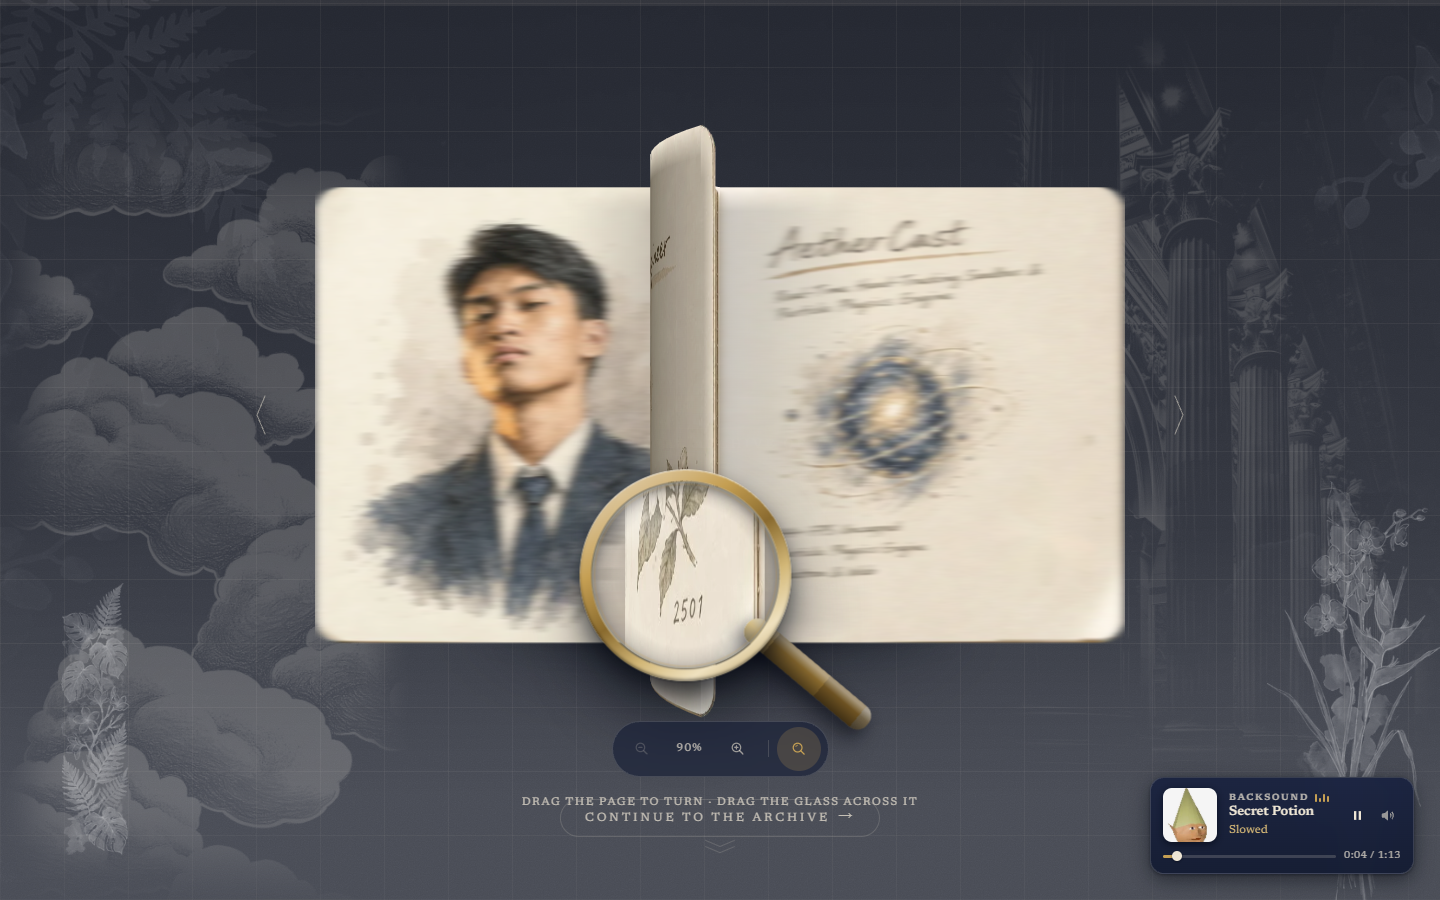
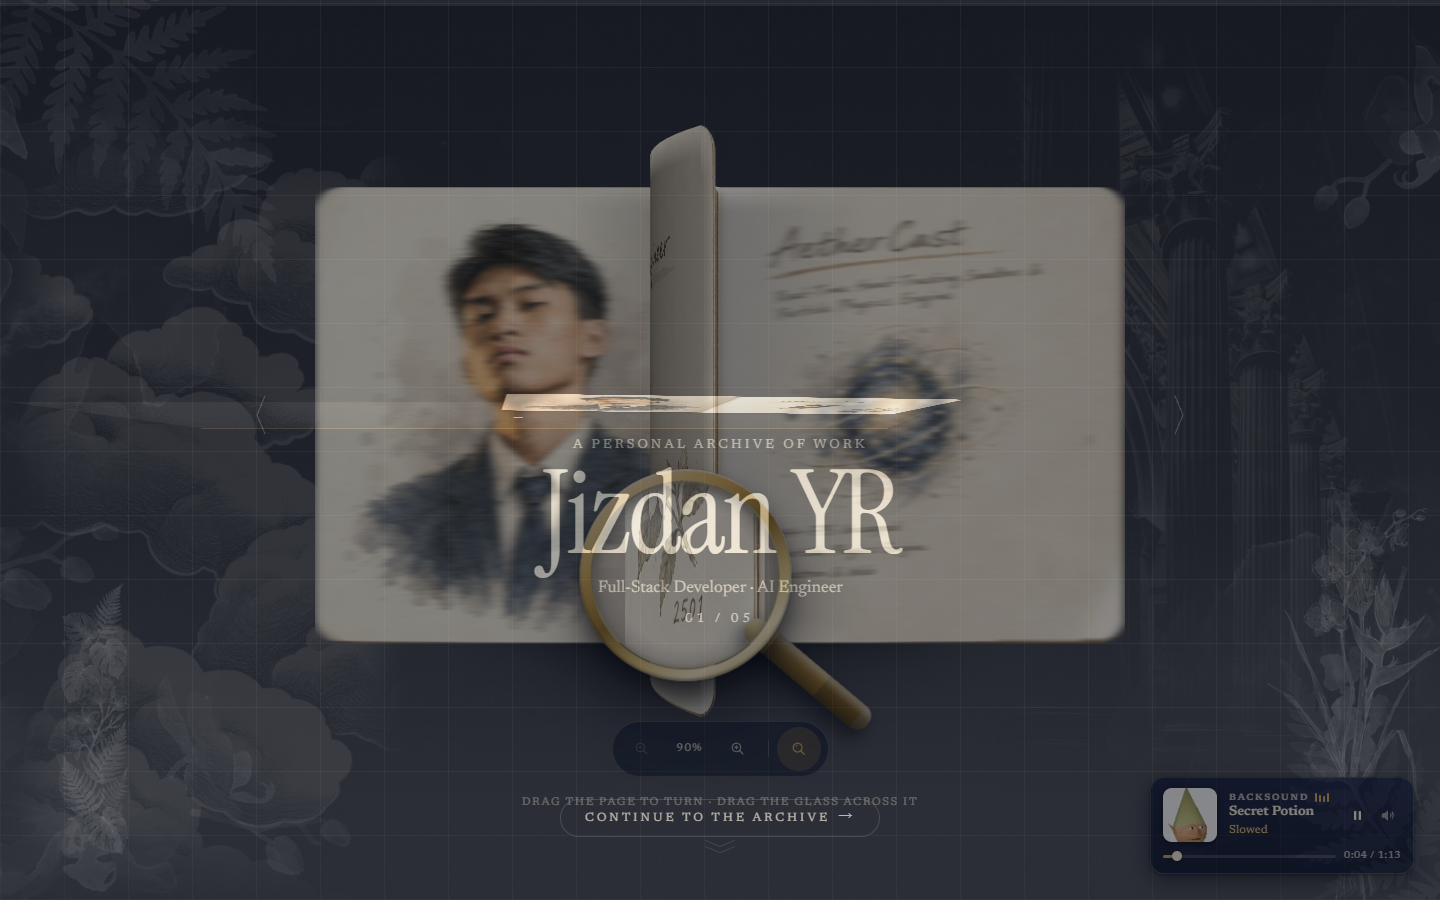
fix(intro): seat the portrait in the fan before it rises
The held portrait was raised from the first frame — its inline --y was
var(--raise), so the "in line with the others" phase the fan is built
around never happened: the book floated above the row from the moment
the plates arrived.

Split the portrait's motion into two beats:

  · cp-plate (as before) brings it in and settles it IN the arc, at
    --y:36px — the same slot as i=0, so the five read as one symmetric
    row.
  · cp-plate-raise (new) then carries it up to --raise, but only after
    the four project plates have faded (clear ends 2700). It runs
    2700 → 3360, landing just before the 3400 resolve, so the order the
    visitor reads is: all five in line → the others go → the book rises.

The raise is its own keyframe rather than a delayed plate arrival, so
the fan pose and the raised seat stay independently auditable. Mobile
keeps the same two beats on its compressed ladder (clear ends 2240,
raise 2240 → 2900, inside the 3600 deadline).

The exit still reads --raise for its settle-to-centre, so the book is
brought down from exactly where cp-plate-raise left it.

Harness 44/44 (A8 added: asserts the arc seat, the raise's declared
schedule after the clears, and the settled seat above the arc twin);
build clean.

diff --git a/public/landing-pages/chin-portfolio.html b/public/landing-pages/chin-portfolio.html
@@ -1784,9 +1784,10 @@
          one viewBox unit is one CSS px times a single uniform scale. */
       .intro-stage {
         --plate-w: min(84vw, 940px, 128vh);
-        /* The held portrait's raise, in ONE place: the plate's inline --y and
-           the exit's settle-to-centre both read it, so the book can never be
-           raised without the exit knowing how far to bring it back down.
+        /* The held portrait's raise, in ONE place: the raise keyframes' end
+           state (cp-plate-raise) and the exit's settle-to-centre both read
+           it, so the book can never be raised without the exit knowing how
+           far to bring it back down.
            -24vh (bounded 150–250px) lands the book in the red-marked upper
            field at 1440x900 (centroid ~26% of the height) and, crucially,
            SHRINKS on short laptops so the top edge never clips off-screen:
@@ -1998,6 +1999,16 @@
           cp-plate 1400ms cubic-bezier(.22, .61, .36, 1) 900ms forwards,
           cp-plate-clear 400ms ease-in 2300ms forwards;
       }
+      /* The held portrait: sits IN the fan's arc (--y:36px, mirroring i=0) so
+         the five plates read as one row, then — only after the four project
+         plates have faded (clear ends 2700) — rises to its seat. The rise is
+         its own beat: 2700 → 3360, landing just before the resolve at 3400,
+         so the visitor sees the book travel up before the Continue appears. */
+      .intro-stage.is-live .intro-plate--raise {
+        animation:
+          cp-plate 1400ms cubic-bezier(.22, .61, .36, 1) 900ms forwards,
+          cp-plate-raise 660ms cubic-bezier(.22, .61, .36, 1) 2700ms forwards;
+      }
       @keyframes cp-plate {
         0%   { opacity: 0;
                transform: translate3d(calc(var(--dir, -1) * -62vw), var(--y, 0px), 0)
@@ -2012,6 +2023,17 @@
       /* Only the four PROJECT plates (--clear) fade. The portrait stays, and
          the strike is revealed behind it as they go. */
       @keyframes cp-plate-clear { to { opacity: 0 } }
+      /* The raise is its own beat, NOT the plate's arrival: the 0% is the
+         portrait's settled fan pose (--y:36px, mirroring i=0), the 100% is
+         its raised seat (--raise). 660ms from 2700 — after the last clear
+         (ends 2700), landing at 3360 just before the 3400 resolve, so the
+         visitor reads "in line → the others go → the book rises". */
+      @keyframes cp-plate-raise {
+        0%   { transform: translate3d(calc((var(--i, 0) - 2) * var(--spread)), var(--y, 0px), 0)
+                         rotate(calc((var(--i, 0) - 2) * 5deg)) scale(1) }
+        100% { transform: translate3d(calc((var(--i, 0) - 2) * var(--spread)), var(--raise), 0)
+                         rotate(calc((var(--i, 0) - 2) * 5deg)) scale(1) }
+      }
 
       /* ---- the identity, seated on the drawing -----------------------------
          The stamp's seat is declared after the identity block below, so it
@@ -2111,8 +2133,9 @@
          over it.
 
          SEAT LOCKED: this is the identity's own position and does not move
-         with the held portrait. The portrait is raised by --raise alone (see
-         .intro-stage), so the ONLY thing that travels up is the sketchbook. */
+         with the held portrait. The portrait is raised by cp-plate-raise
+         alone (see .intro-stage), so the ONLY thing that travels up is the
+         sketchbook. */
       .intro-stamp {
         top: calc(50% + var(--plate-w) * .1797 + 6px);
         transform: translateY(-100%);
@@ -2356,6 +2379,15 @@
             cp-plate 1000ms cubic-bezier(.22,.61,.36,1)
               calc(560ms + var(--i,0) * 70ms) forwards,
             cp-plate-clear 400ms ease-in 1840ms forwards;
+        }
+        /* The portrait's two beats, mobile ladder: in the arc with the others
+           (arrives 840, ends 1840), then — after the clears end 2240 — rises
+           660ms, landing 2900, well inside the 3600 resolve deadline. */
+        .intro-stage.is-live .intro-plate--raise{
+          animation:
+            cp-plate 1000ms cubic-bezier(.22,.61,.36,1)
+              calc(560ms + var(--i,0) * 70ms) forwards,
+            cp-plate-raise 660ms cubic-bezier(.22,.61,.36,1) 2240ms forwards;
         }
 
         /* --- the identity: 2010 + i*70, 480ms; last ends 2700 (2220+480) --- */
@@ -3498,8 +3530,10 @@
              (alternating, so the five arrive from both sides), --y arcs the
              row (outer two 36px below centre, inner two 18px). The four
              PROJECT plates carry --clear so they fade at the exit; the
-             portrait (i=4) does not — it is the top of the pile, the plate
-             left showing when the fan settles. DOM order is load-bearing. -->
+             portrait (i=4) carries --raise instead — it joins the fan's arc
+             (--y:36px, the same slot as i=0, so the row is symmetric) and
+             only AFTER the four have faded does it rise to its seat. DOM
+             order is load-bearing. -->
         <div class="intro-deck" id="introDeck">
           <div class="intro-plate intro-plate--clear" style="--i:0;--dir:-1;--y:36px">
             <img
@@ -3537,7 +3571,7 @@
               decoding="async"
             />
           </div>
-          <div class="intro-plate" style="--i:4;--dir:-1;--y:var(--raise)">
+          <div class="intro-plate intro-plate--raise" style="--i:4;--dir:-1;--y:36px">
             <img
               src="/chin-portfolio/portrait-intro.webp"
               alt=""
